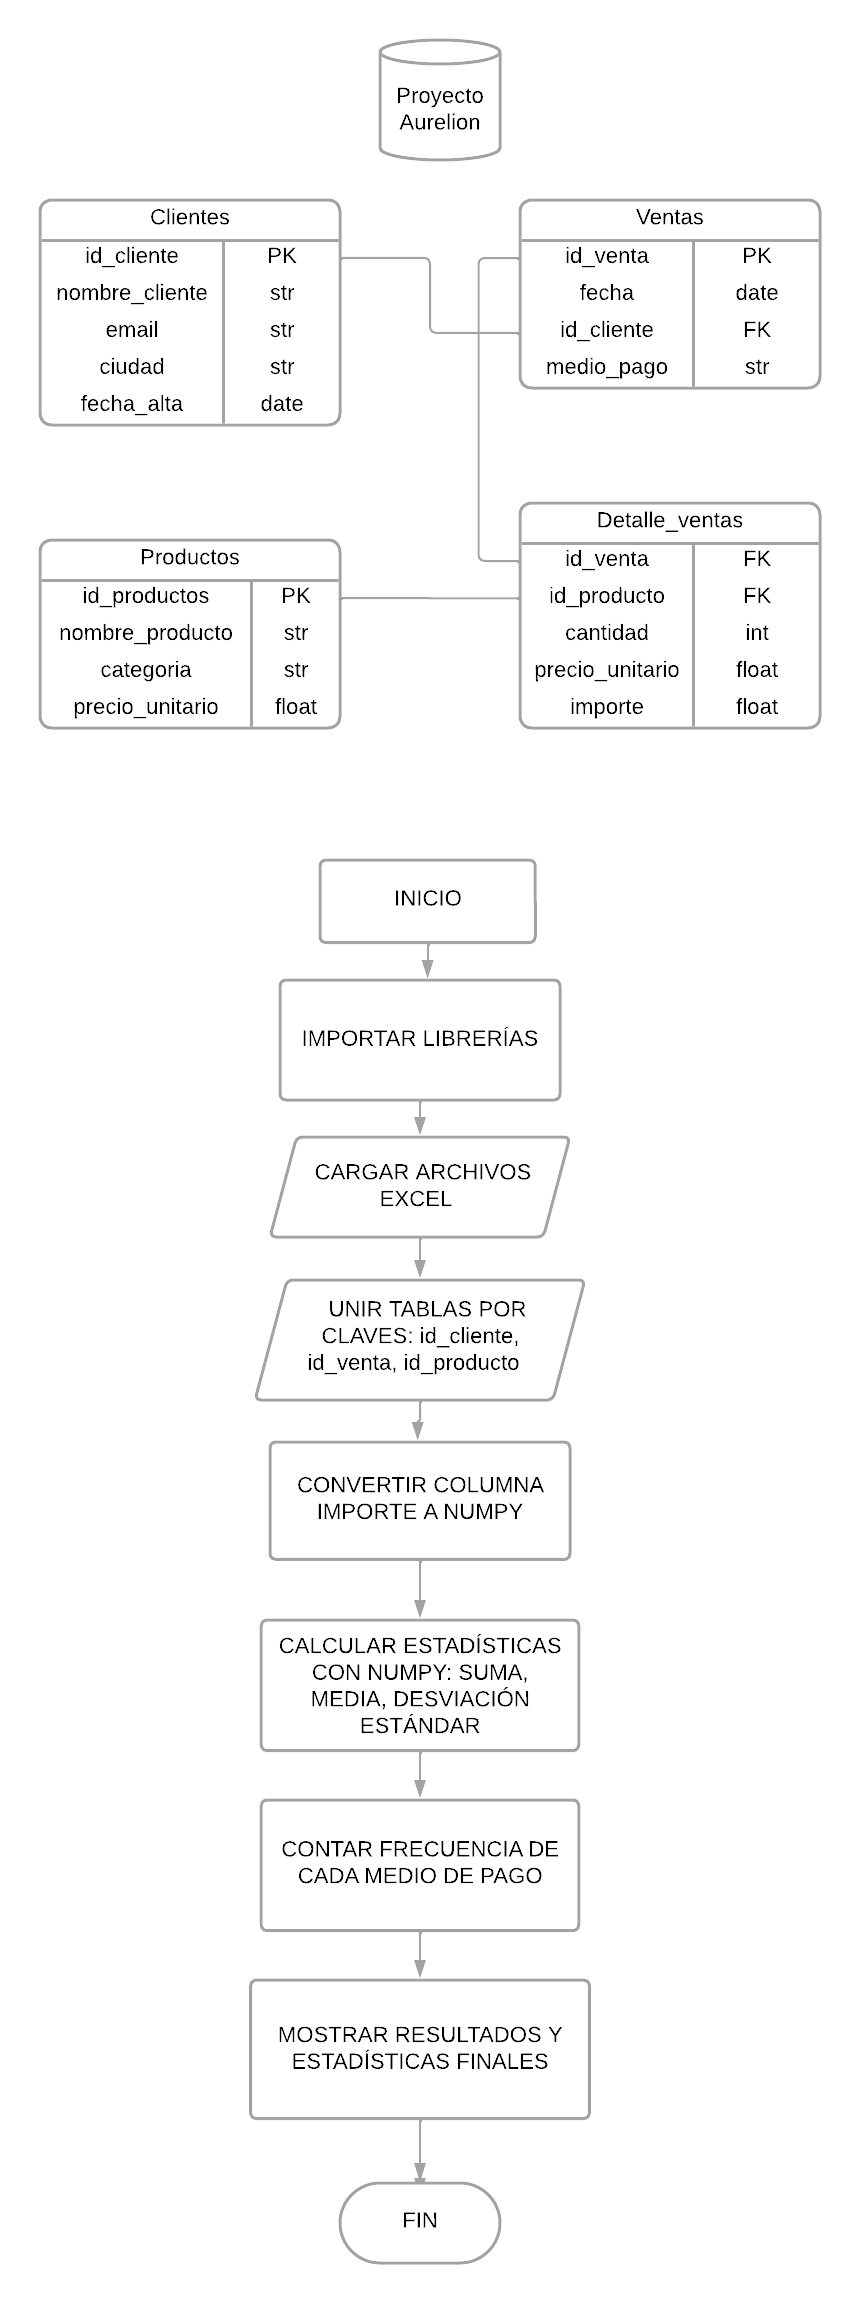
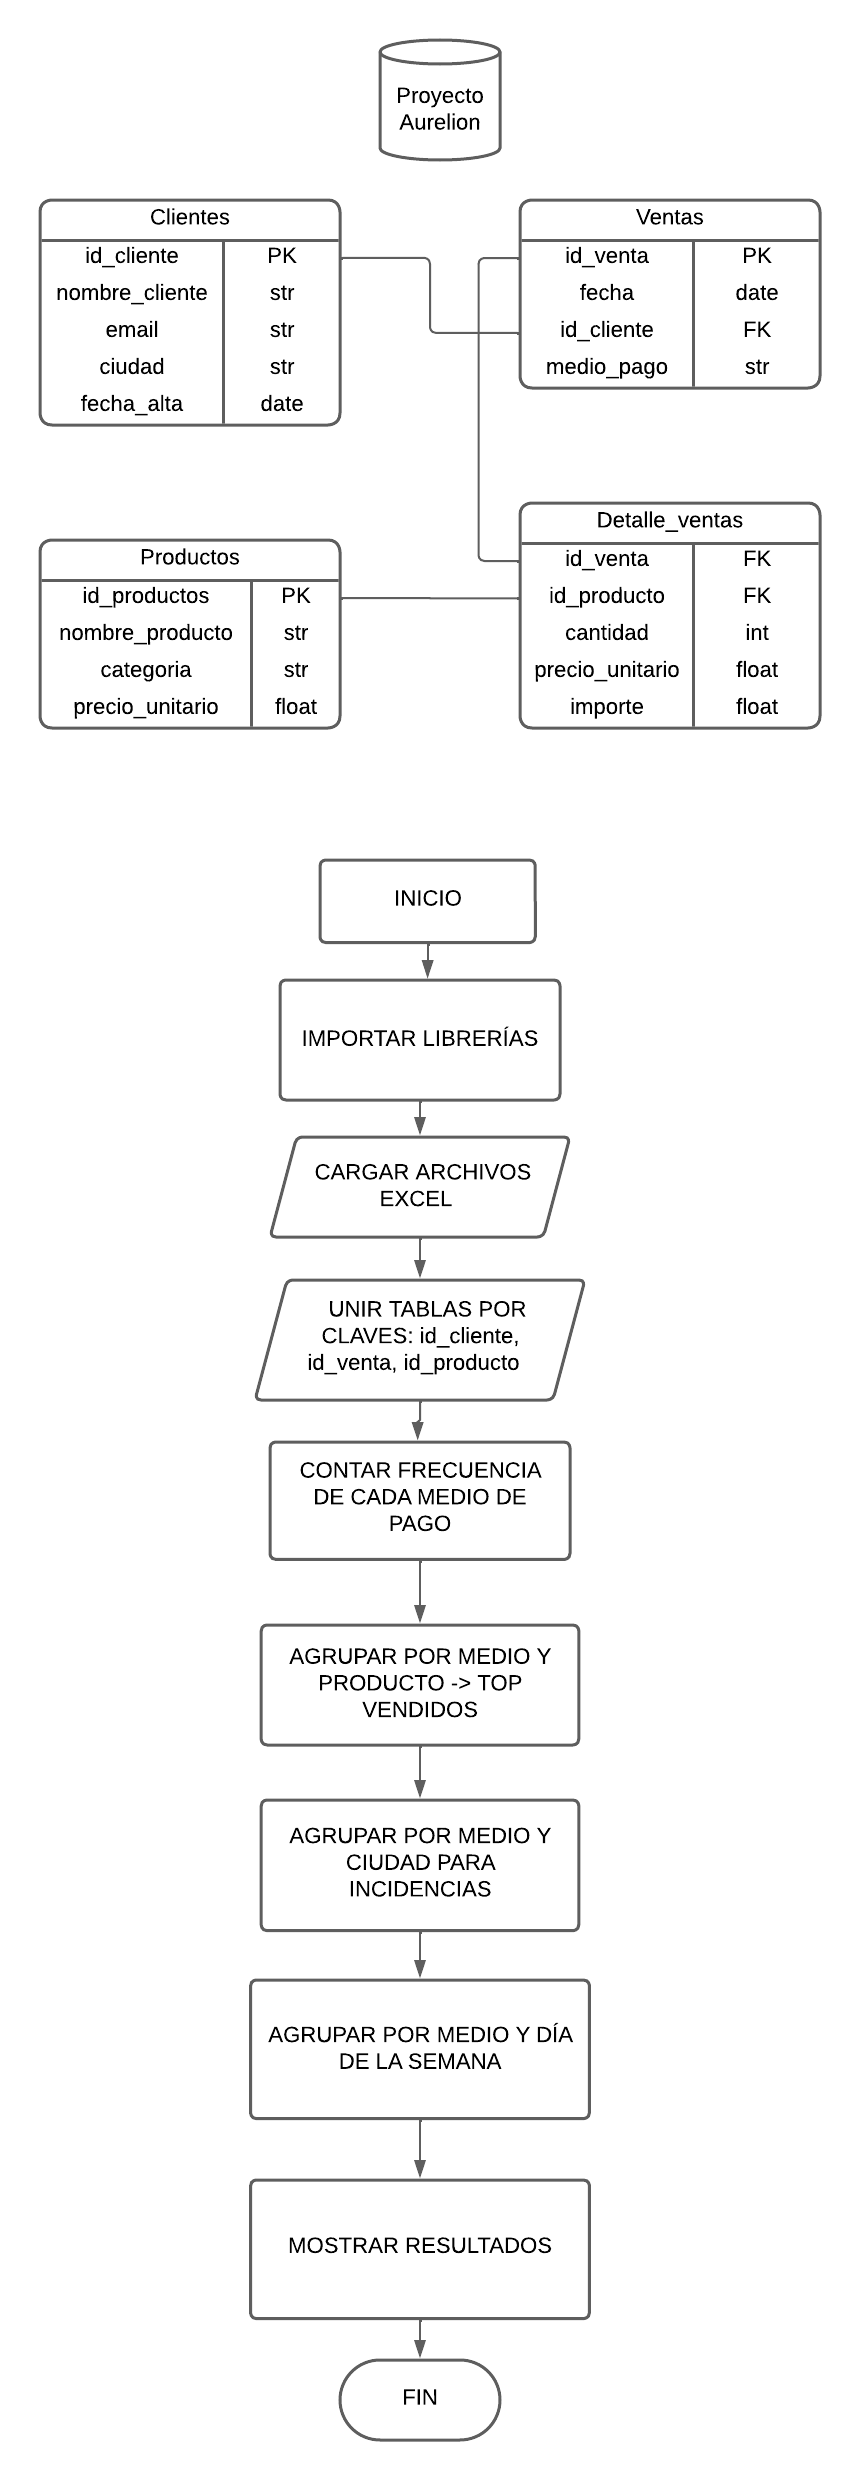
Actualización

diff --git a/Documento.md b/Documento.md
@@ -75,18 +75,26 @@ La tienda puede invertir en mejorar los métodos de pago más demandados. Puede 
     - ventas_detalle ← unir(ventas, detalle, por="id_venta")
     - data ← unir(ventas_detalle, clientes, por="id_cliente")
     - data ← unir(data, productos, por="id_producto")
-4. Convertir columna de importes a arreglo NumPy
-    - convertir a numpy los datos de la variable importe
-5. Calcular estadísticas con NumPy
-    - sumar los importes
-    - sacar el promedio de los importes
-    - sacar la desviación estándar de los importes
-6. Calcular frecuencia de métodos de pago
-    - contar la frecuencia de los métodos de pago
-7. Calcular porcentaje de uso de cada método
-    - longitud de los datos
-    - calcular el porcentaje de los métodos de pago usando la frecuencia y el total de transacciones
+4. Analizar métodos de pago:
+    - listar los medios de pago
+    - contar los métodos de pago
+    - ver los métodos de pago más usados (contar)
+5. Analizar productos por método de pago:
+    - agrupar los métodos de pago según el id del producto
+    - sumar cantidad vendida
+    - obtener top productos por métodos de pago
+6. Analizar ciudades:
+    - agrupar datos de métodos de pago según la ciudad
+    - contar clientes por métodos de pago y ciudad
+7. Analizar días de la semana:
+    - extraer el día de la semana
+    - agrupar por medio_pago y dia_semana
+    - contar número de ventas
 8. Mostrar resultados
+    - imprimir frecuencia de medios de pago
+    - imprimir productos más vendidos por medio
+    - imprimir ciudades con mayor incidencia
+    - imprimir uso por día de semana
 
 # DIAGRAMA DEL PROGRAMA
 ![Diagrama de flujo](Diagrama_de_flujo.png)
